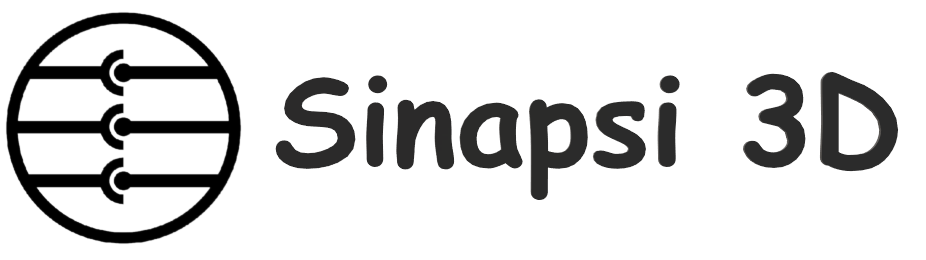
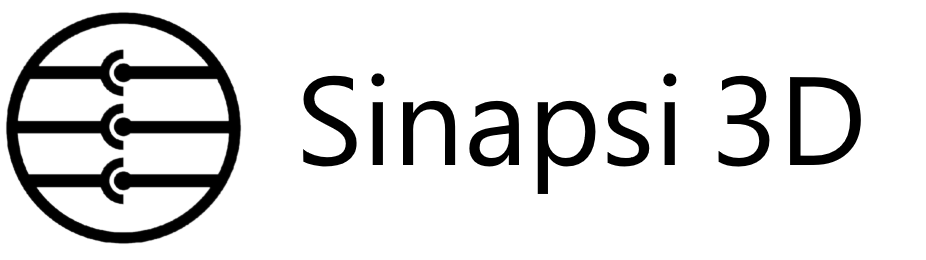
fix font

Changed region(s): [[0.2721, 0.2769, 0.9676, 0.7692]]

diff --git a/src/app/app.component.ts b/src/app/app.component.ts
@@ -28,11 +28,17 @@ export class AppComponent implements OnInit {
             private _translateService: TranslateService,
 		    private _translationLoaderService: TranslationLoaderService,
         ) {
-        this._translateService.addLangs(['it-IT', 'en-US']);
-		this._translateService.setDefaultLang(navigator.language);
-		this._translateService.use(navigator.language);
-		// this._translateService.setDefaultLang('it-IT');
-		// this._translateService.use('it-IT');
+
+        var langs = ['it-IT', 'en-US'];
+        this._translateService.addLangs(langs);
+        if(langs.includes(navigator.language)){
+            this._translateService.setDefaultLang(navigator.language);
+            this._translateService.use(navigator.language);
+        }
+        else{
+            this._translateService.setDefaultLang('it-IT');
+            this._translateService.use('it-IT');
+        }
         
         this._translationLoaderService.loadTranslations('form');
         this._translationLoaderService.loadTranslations('navbar');

diff --git a/src/app/pages/home/home.component.html b/src/app/pages/home/home.component.html
@@ -147,7 +147,7 @@
                                     </p>
                                 </div>
                             </div>
-                            <div class="u-align-right u-container-style u-layout-cell u-size-30 u-layout-cell-2 d-none d-md-block">
+                            <div class="u-align-right u-container-style u-layout-cell u-size-30 u-layout-cell-2">
                                 <div class="u-container-layout u-container-layout-2">
                                     <video class="u-expand-resize u-image u-image-circle u-image-1" autoplay loop muted>
                                         <source src="../../../assets/img/home/video.mp4" type="video/mp4">
